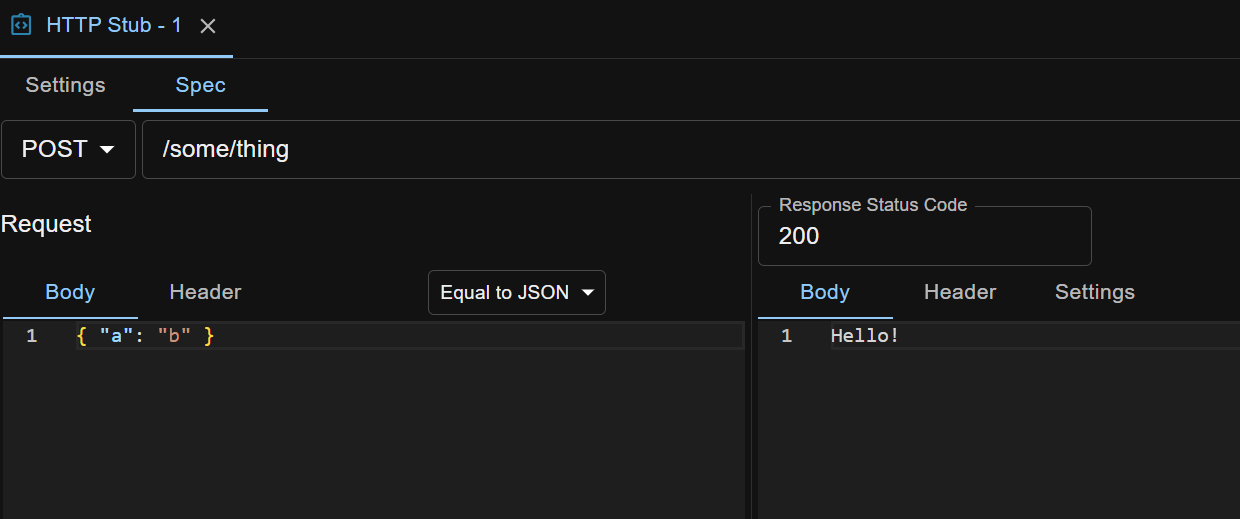
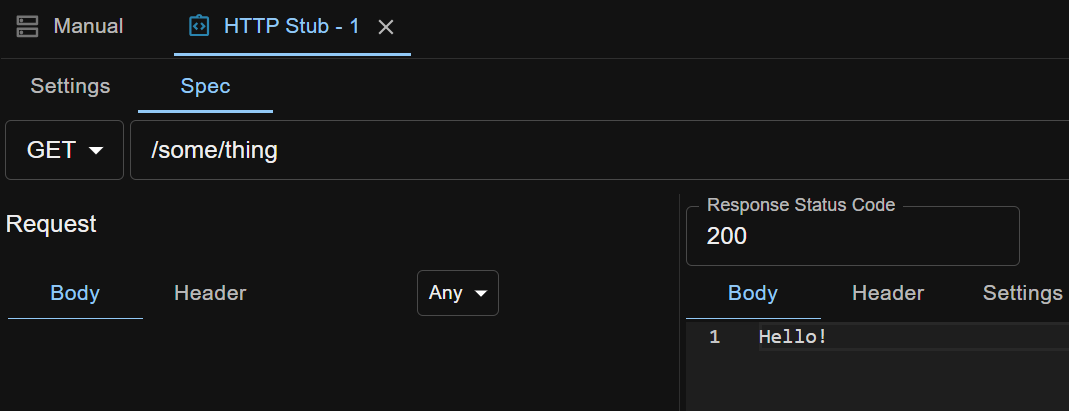
update HTTP Stubs doc

diff --git a/_docs/en/http-stubs.md b/_docs/en/http-stubs.md
@@ -13,50 +13,63 @@ The same technique is also called mock service or service virtualization in the 
 
 The HTTP Stubs feature in API Test Base is powered by [WireMock](http://wiremock.org/).
 
-## A quick play
+## A Quick Play
 Let's play with an HTTP stub quickly.
 
-### Create a stub and load it
-Create a temp test case. Go to its `HTTP Stubs` tab and click `+ Stub` button. On the stub edit view, select `POST` method, enter URL `/some/thing`, select request body pattern `Equal to JSON`, enter request body `{ "a": "b" }`, and enter response body `Hello!`.
+### Create a Stub
+Open the Mock Servers view, select the `Manual` mock server, and select its HTTP Stubs tab.
+
+![Quick Play - Manual Mock Server](../../screenshots/http-stubs/quick-play-manual-mock-server.png)
+
+Click `+ Stub` button. On the stub edit view, enter URL `/some/thing` and response body `Hello!`.
 
 ![Quick Play Stub Details](../../screenshots/http-stubs/quick-play-stub-details.png)
 
-The meaning of the stub is that when an HTTP POST request is sent to the mock server with URL `http://<APITestBaseHost>:<MockServerHTTPPort>/some/thing` (like http://localhost:8092/some/thing) and request body `{ "a": "b" }`, the mock server will return an HTTP response with status code 200 and response body `Hello!`.
+The meaning of the stub is that when an HTTP GET request is sent to the `Manual` mock server with URL `http://<ApiTestBaseHost>:<MockServerHttpPort>/some/thing` (like http://localhost:8094/some/thing), the mock server will return an HTTP response with status code `200` and response body `Hello!`.
 
-The mock server is embedded in the API Test Base instance and is started when API Test Base starts.
+The default port number of the `Manual` mock server is `8094`, and it can be changed under the `Settings` tab of the mock server.
 
-To use HTTPS with the mock server, you can just use URL `https://<APITestBaseHost>:<MockServerHTTPSPort>/some/thing`.
-
-The mock server has a default HTTP port number 8092 and a default HTTPS port number 8093. Both can be changed in the `<ATB_DATA_DIR>/config.properties`.
-
-To manually load the stub into the mock server, go to the test case edit view > HTTP Stubs tab, and click the `Load All` button.
-
-![Quick Play Stub List](../../screenshots/http-stubs/quick-play-stub-list.png)
-
-### Test the stub
-Go to the `Test Steps` tab of the test case, and create an HTTP test step with method `POST`, URL `http://localhost:8092/some/thing` and request body `{ "a": "b" }`. Click the `Invoke` button to invoke the stub, and you'll see a response body `Hello!`.
+### Test the Stub
+Open a new tab in your browser, and go to `http://localhost:8094/some/thing`, and you'll see response body `Hello!` on the page.
 
 ![Quick Play Stub Invocation](../../screenshots/http-stubs/quick-play-stub-invocation.png)
 
-## Mock server status
-To know what stubs have been loaded into the mock server, or check stub request log, open the mock server page by clicking the `Mock Server` link under the `HTTP Stubs` tab of the test case.
+## Mock Server Status
+To know what stubs have been loaded into the mock server, or check stub request log, open the mock server Status tab.
 
-![Mock Server Status Page](../../screenshots/http-stubs/mock-server-status-page.png)
+![Mock Server Status](../../screenshots/http-stubs/mock-server-status.png)
 
-## Use HTTP stubs in automated API testing
-It is easy. Create stubs in your test case like above, but no need to load them into mock server manually (via the Load All button). Every time you run the test case, below things happen automatically
-- On test case run start, the mock server is reset and the stubs defined on the test case are loaded into the mock server.
-    - Mock server reset means all stubs and all stub request logs are cleared from the mock server.
+## Mock Servers
+There are two mock servers in API Test Base: `Manual`, `Auto`.
+
+### The Manual Mock Server
+The `Manual` mock server is used for defining and hosting ad hoc HTTP stubs. You can define HTTP stubs on the `Manual` mock server, and then immediately use/invoke it without any dependency.
+
+### The Auto Mock Server
+The `Auto` mock server is used when running test cases which have HTTP stubs defined on them. The HTTP stubs are defined on test cases, rather than on mock server.
+
+When a test case runs, the `Auto` mock server is cleared and all HTTP stubs defined on the test case are automatically loaded into the `Auto` mock server, ready to be invoked (by your API under test).
+
+More details follow.
+
+## Use HTTP Stubs in Automated API Testing
+It is easy. Create stubs in your test case under its `HTTP Stubs` tab. Every time you run the test case, below things happen automatically
+- On test case run start, the `Auto` mock server is reset and all the stubs defined on the test case are automatically loaded into the mock server, ready to be invoked (by your API under test).
+    - Mock server reset means all stubs, stub request logs, scenarios, etc. are cleared from the mock server.
 - On test case run end, stub requests received by the mock server are checked by asserting
-    - All stubs in the test case have been hit.
-    - If the 'Check Hit Order' option is selected under the HTTP Stubs tab on the test case edit view, the stubs have been hit in ascending order by stub number.
-    - All stub requests received by the mock server have been matched (i.e. each request has hit a stub in the test case).
+    - All stubs from the test case have been hit.
+    - If the 'Check Hit Order' option is selected under the HTTP Stubs tab on the test case edit view, the stubs from the test case have been hit in ascending order by stub number.
+    - All stub requests received by the `Auto` mock server have been matched (i.e. each request has hit a stub from the test case).
 
 ## Other supported features
-- Setting a delay for response
+- **Setting a delay for response**
 - [Response templating](http://wiremock.org/docs/response-templating/)  
     Use attributes of the request in the response.
 - [Regex matching on path and query](http://wiremock.org/docs/request-matching/#regex-matching-on-path-and-query)  
     Use this when your client request URL contains dynamic parts.
 - [Stateful Behaviour](http://wiremock.org/docs/stateful-behaviour/)  
     This is useful when you want to ensure the stubs are hit in specified order.
+- **HTTPS stubs**<br>
+    This is useful when your API under test can only call HTTPS dependencies.<br>
+    The same stub can be invoked via both HTTP and HTTPS. To invoke a stub via HTTPS, simply use a different port number. `https://<ApiTestBaseHost>:<MockServerHttpsPort>/some/thing`, like `https://localhost:8095/some/thing`.<br>
+    The HTTPS port number can be changed under the mock server's `Settings` tab.
